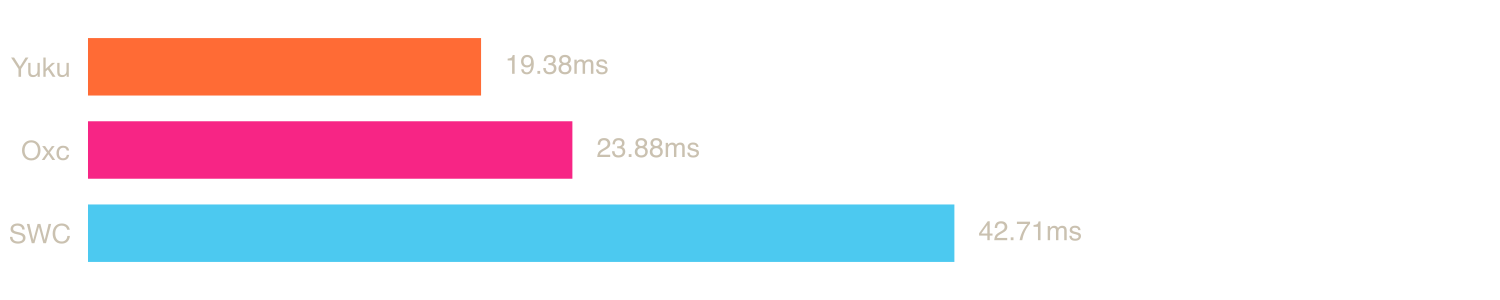
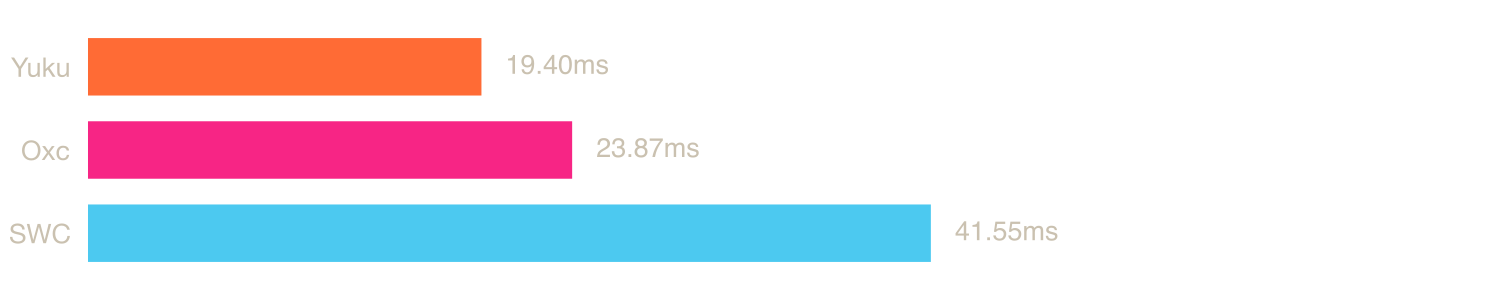
update parsers

Changed region(s): [[0.6133, 0.66, 0.736, 0.87], [0.3373, 0.18, 0.3987, 0.24], [0.4293, 0.48, 0.46, 0.51]]

diff --git a/README.md b/README.md
@@ -41,9 +41,9 @@ An extensible Rust-based platform for compiling and bundling JavaScript and Type
 
 | Parser | Median | Min | p99 | Relative |
 |--------|--------|-----|-----|----------|
-| Yuku | 19.38 ms | 19.29 ms | 19.57 ms | 1.00× |
-| Oxc | 23.88 ms | 23.79 ms | 25.25 ms | 1.23× |
-| SWC | 42.71 ms | 42.28 ms | 43.27 ms | 2.20× |
+| Yuku | 19.40 ms | 19.30 ms | 41.43 ms | 1.00× |
+| Oxc | 23.87 ms | 23.80 ms | 24.54 ms | 1.23× |
+| SWC | 41.55 ms | 40.85 ms | 45.12 ms | 2.14× |
 
 ### [checker.ts](https://raw.githubusercontent.com/yuku-toolchain/parser-benchmark-files/refs/heads/main/checker.ts)
 
@@ -53,9 +53,9 @@ An extensible Rust-based platform for compiling and bundling JavaScript and Type
 
 | Parser | Median | Min | p99 | Relative |
 |--------|--------|-----|-----|----------|
-| Yuku | 6.64 ms | 6.60 ms | 6.71 ms | 1.00× |
-| Oxc | 7.78 ms | 7.72 ms | 8.08 ms | 1.17× |
-| SWC | 13.68 ms | 13.20 ms | 20.87 ms | 2.06× |
+| Yuku | 6.62 ms | 6.59 ms | 6.74 ms | 1.00× |
+| Oxc | 7.73 ms | 7.69 ms | 8.50 ms | 1.17× |
+| SWC | 13.31 ms | 13.11 ms | 15.04 ms | 2.01× |
 
 ### [react.js](https://raw.githubusercontent.com/yuku-toolchain/parser-benchmark-files/refs/heads/main/react.js)
 
@@ -67,7 +67,7 @@ An extensible Rust-based platform for compiling and bundling JavaScript and Type
 |--------|--------|-----|-----|----------|
 | Yuku | 0.12 ms | 0.12 ms | 0.13 ms | 1.00× |
 | Oxc | 0.16 ms | 0.16 ms | 0.17 ms | 1.33× |
-| SWC | 0.27 ms | 0.27 ms | 0.29 ms | 2.30× |
+| SWC | 0.27 ms | 0.27 ms | 0.29 ms | 2.27× |
 
 ## Semantic
 
@@ -83,8 +83,8 @@ The benchmarks below measure parsing followed by this additional pass, which bui
 
 | Parser | Median | Min | p99 | Relative |
 |--------|--------|-----|-----|----------|
-| Yuku + Semantic | 41.82 ms | 41.51 ms | 43.33 ms | 1.00× |
-| Oxc + Semantic | 53.67 ms | 52.97 ms | 55.94 ms | 1.28× |
+| Yuku + Semantic | 41.77 ms | 41.44 ms | 44.46 ms | 1.00× |
+| Oxc + Semantic | 55.29 ms | 53.53 ms | 88.67 ms | 1.32× |
 
 ### [checker.ts](https://raw.githubusercontent.com/yuku-toolchain/parser-benchmark-files/refs/heads/main/checker.ts)
 
@@ -92,8 +92,8 @@ The benchmarks below measure parsing followed by this additional pass, which bui
 
 | Parser | Median | Min | p99 | Relative |
 |--------|--------|-----|-----|----------|
-| Yuku + Semantic | 14.79 ms | 14.69 ms | 15.03 ms | 1.00× |
-| Oxc + Semantic | 18.32 ms | 18.15 ms | 18.84 ms | 1.24× |
+| Yuku + Semantic | 14.77 ms | 14.68 ms | 14.91 ms | 1.00× |
+| Oxc + Semantic | 18.03 ms | 17.91 ms | 18.35 ms | 1.22× |
 
 ### [react.js](https://raw.githubusercontent.com/yuku-toolchain/parser-benchmark-files/refs/heads/main/react.js)
 
@@ -101,8 +101,8 @@ The benchmarks below measure parsing followed by this additional pass, which bui
 
 | Parser | Median | Min | p99 | Relative |
 |--------|--------|-----|-----|----------|
-| Yuku + Semantic | 0.27 ms | 0.26 ms | 0.31 ms | 1.00× |
-| Oxc + Semantic | 0.34 ms | 0.34 ms | 0.39 ms | 1.28× |
+| Yuku + Semantic | 0.27 ms | 0.26 ms | 0.28 ms | 1.00× |
+| Oxc + Semantic | 0.34 ms | 0.34 ms | 0.35 ms | 1.30× |
 
 ## Run Benchmarks
 
